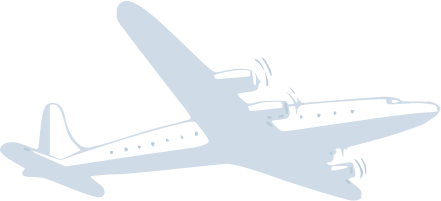
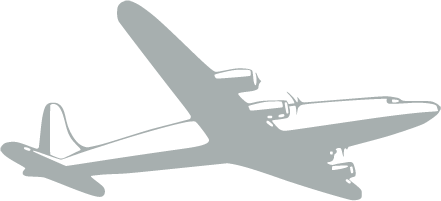
Color refinement and typos

diff --git a/index.html b/index.html
@@ -158,7 +158,7 @@ a.ticket-link:hover {
 		<main class="container">
 			<div class="row">
 				<div class="col-md-7 col-md-offset-1 col-sm-8 margin-top semitransparent-bg">
-					<p>We hope you had a chance to stop by our booth at MOMCon. If you have two- or three-year-olds, be sure to look at our Preschool Package&mdash;it's a great way to bond with your child while instilling good character.</p>
+					<p>We hope you had a chance to stop by our booth at MOMCon. If you have two- or three-year-olds, be sure to look at our Preschool Packages&mdash;it's a great way to bond with your child while instilling good character.</p>
 					<br>
 					<h4>Winners of the Preschool Package Raffle will be announced here. Watch this space!</h4>
 					<!-- <h4>Congratulations to the 3 lucky winners of our Preschool Package raffle:</h4>
@@ -202,8 +202,8 @@ a.ticket-link:hover {
 					<img src="img/First-virtues.png" alt="First Virtues" class="book-cover">
 				</div>
 				<div class="col-md-7 col-sm-8 col-xs-10 col-md-offset-1 col-sm-offset-0 col-xs-offset-1 semitransparent-bg border-box">
-					<p><i>All Aboard the Animal Train</i> features <i>First Virtues</i>, created by Dr. Mary Manz Simon (a MOPS board member) to teach important character traits to her children. The twelve virtues taught in this delightful book were chosen by asking MOPS parents "Which are the most important core beliefs for your child to learn?"</p>
-					<p>Character traits are somewhat abstract, and young children are usually concrete thinkers, so imparting these important lessons can be difficult. First Virtues starts each story with a simple definition of each virtue and then follows that up with clear examples from a child's life. Charming illustrations combine with concise, entertaining prose and practical advice to create a can't-miss parenting tool.</p>
+					<p><i>All Aboard the Animal Train</i> features <i>First Virtues</i>, created by Dr. Mary Manz Simon (a MOPS advisory board member) to teach important character traits to her children. The twelve virtues taught in this delightful book were chosen by asking MOPS parents, "Which are the most important core beliefs for your child to learn?"</p>
+					<p>Character traits are somewhat abstract, and young children are usually concrete thinkers, so imparting these important lessons can be difficult. <i>First Virtues</i> starts each story with a simple definition of each virtue and then follows that up with clear examples from a child's life. Charming illustrations combine with concise, entertaining prose and practical advice to create a can't-miss parenting tool.</p>
 				</div>
 				<div class="col-md-3 col-sm-4 hidden-xs">
 					<img src="img/First-virtues.png" alt="First Virtues" class="book-cover">
